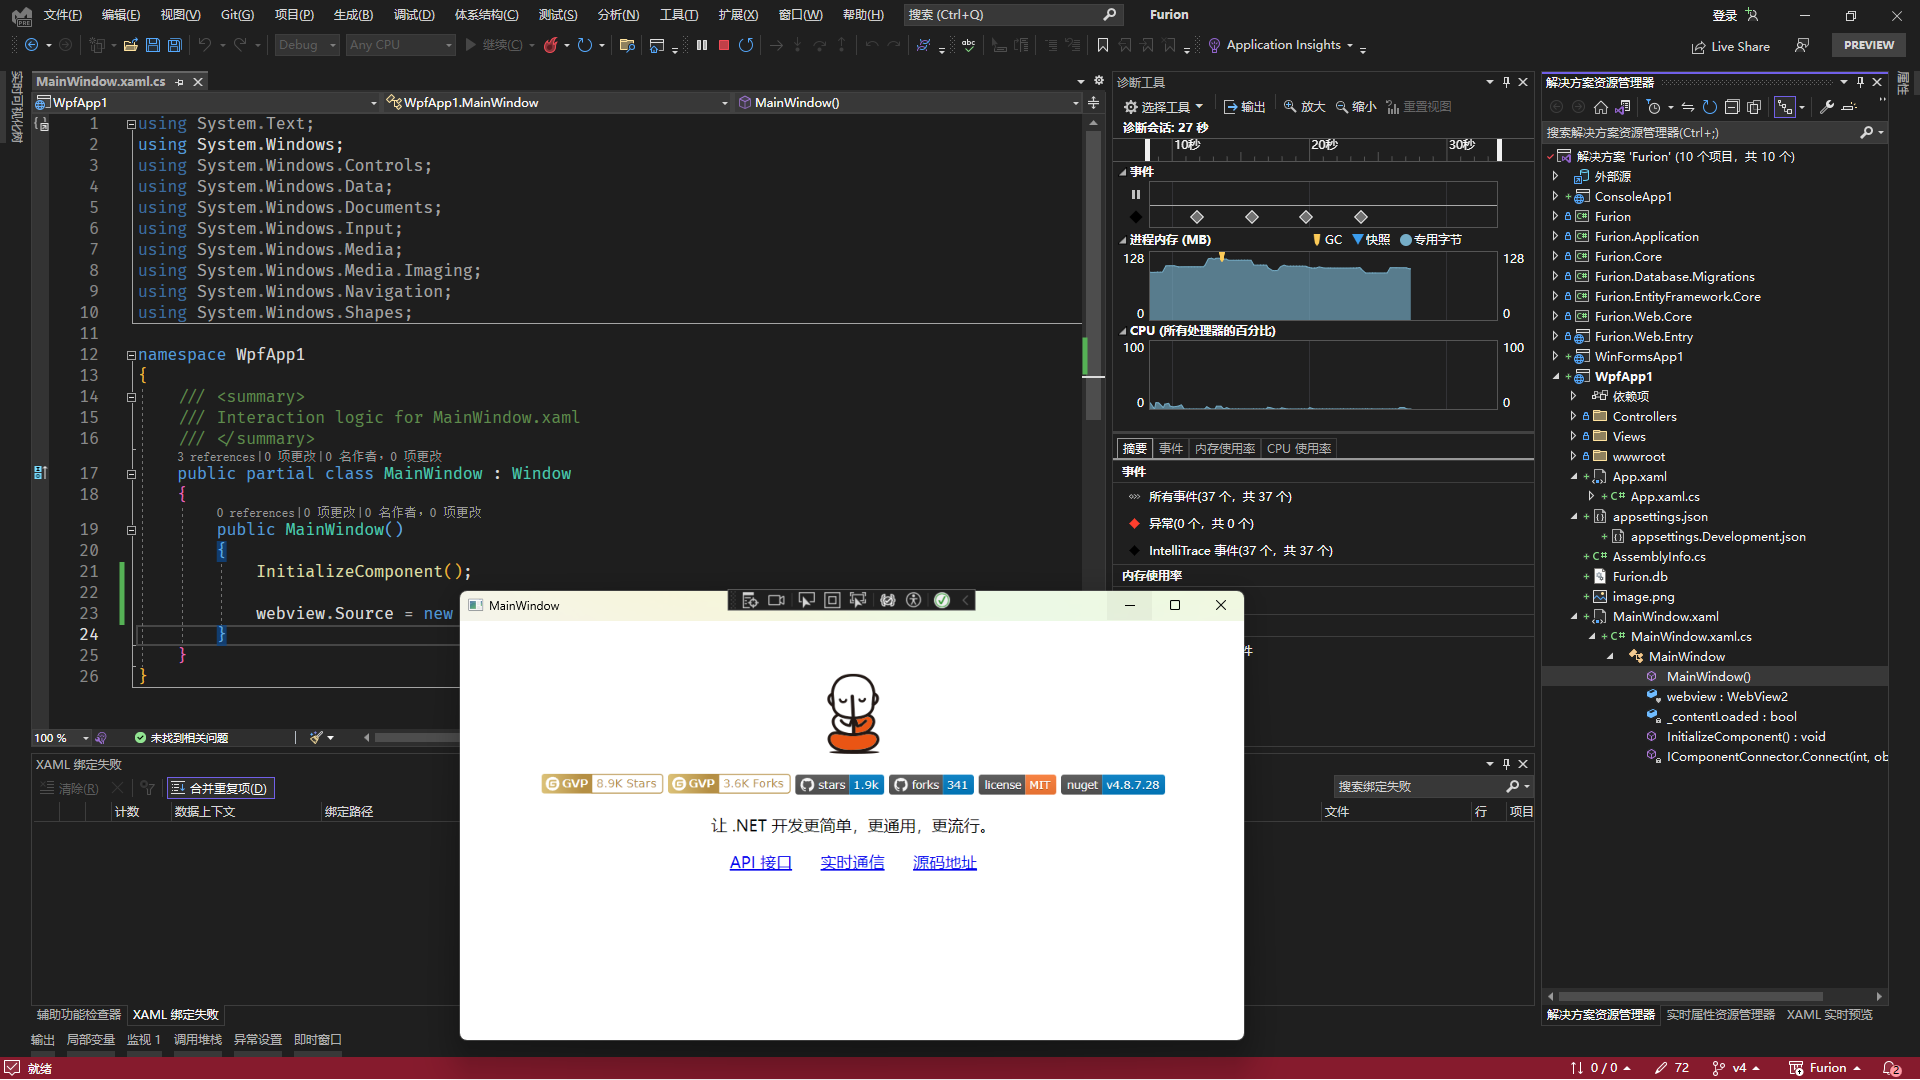
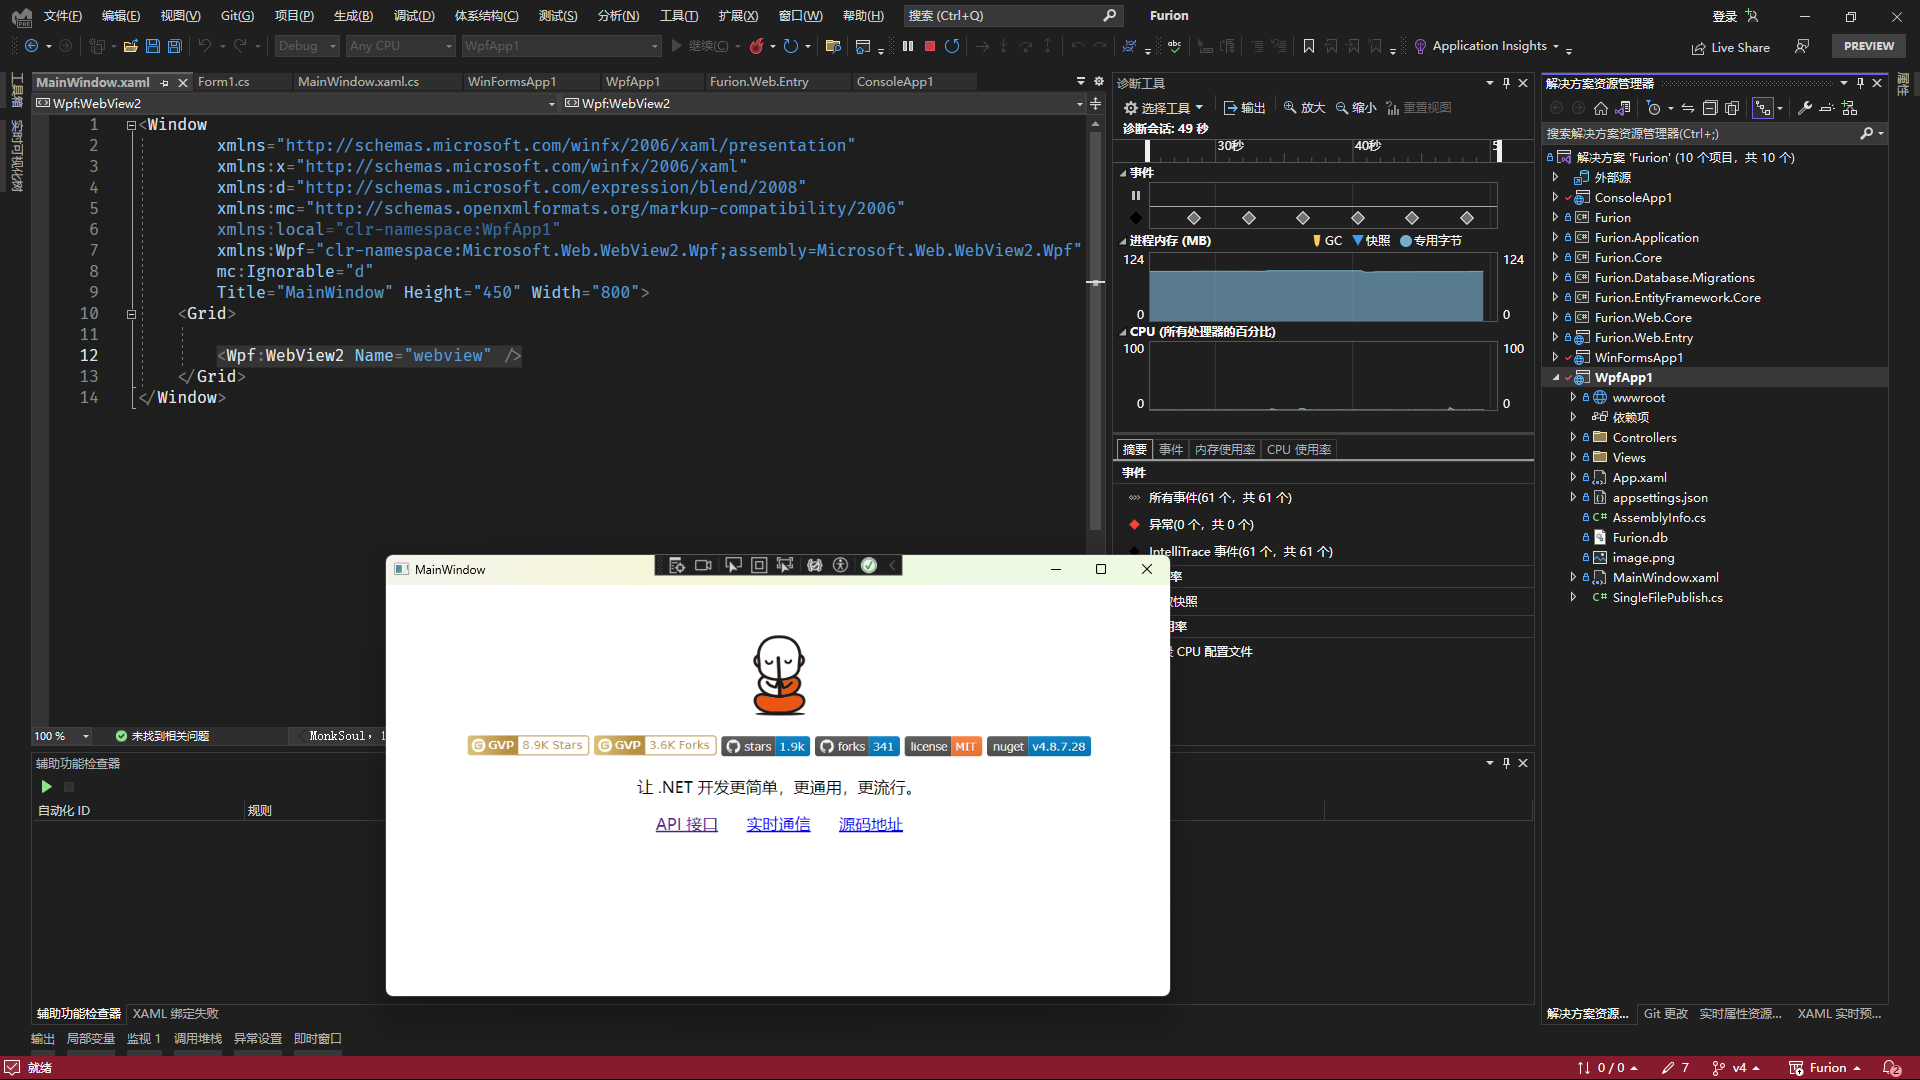
😊 完成将 `Web` 项目生成桌面软件 `WinForm/WPF` 文档

diff --git a/samples/WinFormsApp1/SingleFilePublish.cs b/samples/WinFormsApp1/SingleFilePublish.cs
@@ -1,0 +1,36 @@
+using Furion;
+using System.Reflection;
+
+namespace WinFormsApp1;
+
+/// <summary>
+/// 解决单文件发布问题
+/// </summary>
+public class SingleFilePublish : ISingleFilePublish
+{
+    /// <summary>
+    /// 解决单文件不能扫描的程序集
+    /// </summary>
+    /// <remarks>和 <see cref="IncludeAssemblyNames"/> 可同时配置</remarks>
+    /// <returns></returns>
+    public Assembly[] IncludeAssemblies()
+    {
+        return Array.Empty<Assembly>();
+    }
+
+    /// <summary>
+    /// 解决单文件不能扫描的程序集名称
+    /// </summary>
+    /// <remarks>和 <see cref="IncludeAssemblies"/> 可同时配置</remarks>
+    /// <returns></returns>
+    public string[] IncludeAssemblyNames()
+    {
+        return new[]
+        {
+            "Furion.Application",
+            "Furion.Core",
+            "Furion.EntityFramework.Core",
+            "Furion.Web.Core"
+        };
+    }
+}

diff --git a/samples/ConsoleApp1/SingleFilePublish.cs b/samples/ConsoleApp1/SingleFilePublish.cs
@@ -1,0 +1,36 @@
+using Furion;
+using System.Reflection;
+
+namespace ConsoleApp1;
+
+/// <summary>
+/// 解决单文件发布问题
+/// </summary>
+public class SingleFilePublish : ISingleFilePublish
+{
+    /// <summary>
+    /// 解决单文件不能扫描的程序集
+    /// </summary>
+    /// <remarks>和 <see cref="IncludeAssemblyNames"/> 可同时配置</remarks>
+    /// <returns></returns>
+    public Assembly[] IncludeAssemblies()
+    {
+        return Array.Empty<Assembly>();
+    }
+
+    /// <summary>
+    /// 解决单文件不能扫描的程序集名称
+    /// </summary>
+    /// <remarks>和 <see cref="IncludeAssemblies"/> 可同时配置</remarks>
+    /// <returns></returns>
+    public string[] IncludeAssemblyNames()
+    {
+        return new[]
+        {
+            "Furion.Application",
+            "Furion.Core",
+            "Furion.EntityFramework.Core",
+            "Furion.Web.Core"
+        };
+    }
+}

diff --git a/samples/WpfApp1/SingleFilePublish.cs b/samples/WpfApp1/SingleFilePublish.cs
@@ -1,0 +1,36 @@
+using Furion;
+using System.Reflection;
+
+namespace WpfApp1;
+
+/// <summary>
+/// 解决单文件发布问题
+/// </summary>
+public class SingleFilePublish : ISingleFilePublish
+{
+    /// <summary>
+    /// 解决单文件不能扫描的程序集
+    /// </summary>
+    /// <remarks>和 <see cref="IncludeAssemblyNames"/> 可同时配置</remarks>
+    /// <returns></returns>
+    public Assembly[] IncludeAssemblies()
+    {
+        return Array.Empty<Assembly>();
+    }
+
+    /// <summary>
+    /// 解决单文件不能扫描的程序集名称
+    /// </summary>
+    /// <remarks>和 <see cref="IncludeAssemblies"/> 可同时配置</remarks>
+    /// <returns></returns>
+    public string[] IncludeAssemblyNames()
+    {
+        return new[]
+        {
+            "Furion.Application",
+            "Furion.Core",
+            "Furion.EntityFramework.Core",
+            "Furion.Web.Core"
+        };
+    }
+}
